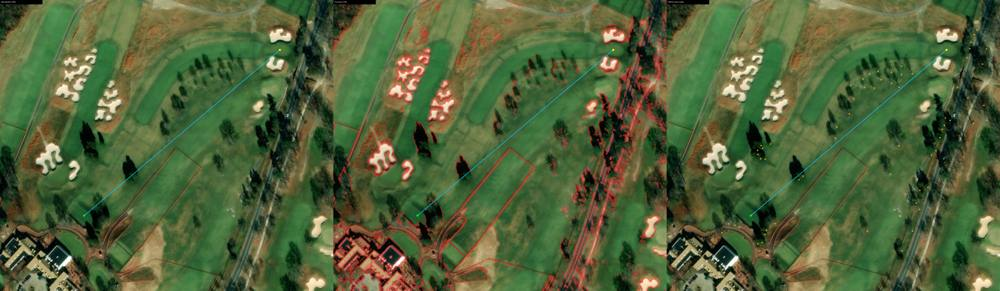
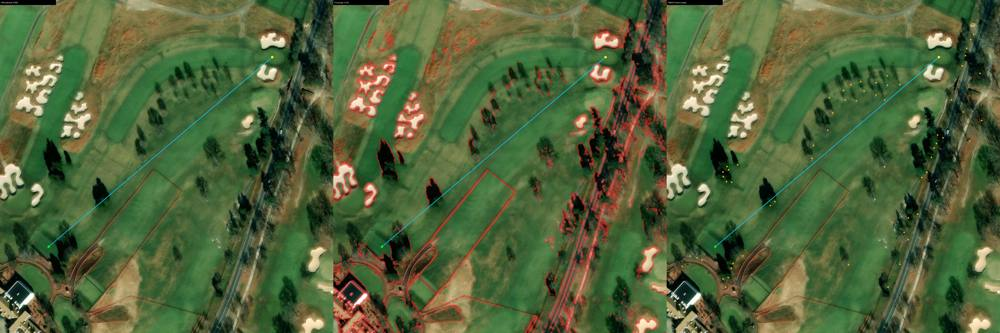
spike: make OSM-vs-CV numbers reproducible (reviewer follow-up)
Adds backend/scripts/tree_osm_compare.py (isolated-venv harness) that fetches the ESRI
tiles + the OSM tree/woods tags osm.py ingests, builds the committed 3-panel figures, and
prints the exact numbers the findings cite (canopy %, OSM counts, mean ExG corridor vs
in-woods, CV recall inside OSM woods). Closes the reviewer's non-blocking reproducibility
gap: the OSM node/poly/recall/ExG figures are no longer asserted-only. Softened live OSM
counts to ~approx (Overpass is live-edited) and pointed the Reproduce section at the
script. Ruff clean; no app code or deps touched.

Claude-Session: https://claude.ai/code/session_012CgufkmbGRw1MXGKEmTpei

diff --git a/backend/scripts/tree_osm_compare.py b/backend/scripts/tree_osm_compare.py
@@ -1,0 +1,170 @@
+"""OSM-vs-CV comparison for the tree-detection spike — makes the findings reproducible.
+
+RESEARCH SPIKE (2026-07-09). NOT wired into the app. Isolated spike venv only
+(numpy + Pillow + requests), same as tree_detect_spike.py.
+
+Given a hole's tee/green, this:
+  1. fetches the ESRI tile mosaic + runs the classical CV canopy detector (from
+     tree_detect_spike.py),
+  2. fetches OSM `natural=tree` nodes and `natural=wood`/`landuse=forest`/`scrub`/
+     `tree_row` polygons for the same bbox (the SAME tags osm.py ingests),
+  3. writes a 3-panel figure (raw | CV canopy | OSM trees+woods), and
+  4. prints the numbers cited in specs/tree-detection-cv-findings.md: OSM node/poly
+     counts, CV canopy %, whole-corridor vs in-woods mean ExG (the leaf-off signal),
+     and CV recall inside OSM-mapped woodland.
+
+Run (from repo root, isolated venv):
+    /tmp/tree-spike-venv/bin/python backend/scripts/tree_osm_compare.py \
+        --tee 40.745894,-73.450704 --green 40.749638,-73.452077 \
+        --label black-15 --out /tmp/tree-spike-out
+"""
+
+from __future__ import annotations
+
+import argparse
+import json
+import os
+import sys
+
+sys.path.insert(0, os.path.dirname(os.path.abspath(__file__)))
+from tree_spike_geometry import corridor_bbox  # noqa: E402
+
+try:
+    import numpy as np
+    import requests
+    from PIL import Image, ImageDraw
+except ImportError as exc:  # pragma: no cover - spike-venv guard
+    sys.exit(
+        f"[tree_osm_compare] missing '{exc.name}'. SPIKE script — isolated venv only:\n"
+        "  python3 -m venv /tmp/tree-spike-venv\n"
+        "  /tmp/tree-spike-venv/bin/pip install numpy Pillow requests"
+    )
+
+from tree_detect_spike import detect_canopy, fetch_mosaic, morph  # noqa: E402
+
+_UA = {"User-Agent": "looper-tree-spike/1.0 (feasibility research; contact repo owner)"}
+_OVERPASS = "https://overpass-api.de/api/interpreter"
+
+
+def osm_features(bbox):
+    """Return (tree_nodes[(lat,lng)], woods_polys[[(lat,lng)...]]) for the bbox using
+    the same tags backend/app/services/osm.py ingests."""
+    min_lat, min_lng, max_lat, max_lng = bbox
+    b = f"{min_lat},{min_lng},{max_lat},{max_lng}"
+    q = (f"[out:json][timeout:60];("
+         f"node[natural=tree]({b});"
+         f"way[natural=wood]({b});way[landuse=forest]({b});"
+         f"way[natural=scrub]({b});way[natural=tree_row]({b}););out geom;")
+    # Overpass throttles anonymous callers; retry a couple of times on a non-JSON body.
+    els = None
+    for attempt in range(3):
+        resp = requests.post(_OVERPASS, data={"data": q}, headers=_UA, timeout=90)
+        try:
+            els = resp.json().get("elements", [])
+            break
+        except ValueError:
+            if attempt == 2:
+                sys.exit(f"[tree_osm_compare] Overpass returned no JSON "
+                         f"(status {resp.status_code}) — likely rate-limited; retry later.")
+            __import__("time").sleep(10)
+    trees = [(e["lat"], e["lon"]) for e in els if e.get("type") == "node"]
+    polys = [[(p["lat"], p["lon"]) for p in e["geometry"]]
+             for e in els if e.get("type") == "way" and e.get("geometry")]
+    return trees, polys
+
+
+def _label(img, text):
+    d = ImageDraw.Draw(img)
+    d.rectangle([0, 0, 300, 26], fill=(0, 0, 0))
+    d.text((6, 8), text, fill=(255, 255, 255))
+    return img
+
+
+def run(tee, green, label, z, buffer_yd, out_dir):
+    bbox = corridor_bbox(tee, green, buffer_yd)
+    img, to_px, mpp = fetch_mosaic(bbox, z, os.path.join(out_dir, "tiles"))
+    canopy, exg, _ = detect_canopy(img)
+    canopy = morph(canopy)
+    tx, ty = to_px(*tee)
+    gx, gy = to_px(*green)
+
+    def chord(dd):
+        dd.line([tx, ty, gx, gy], fill=(0, 200, 255, 255), width=3)
+        dd.ellipse([tx - 6, ty - 6, tx + 6, ty + 6], fill=(0, 255, 0, 255))
+        dd.ellipse([gx - 6, gy - 6, gx + 6, gy + 6], fill=(255, 255, 0, 255))
+
+    p1 = img.copy()
+    chord(ImageDraw.Draw(p1))
+    _label(p1, "RAW satellite (ESRI)")
+
+    ov = img.convert("RGBA")
+    tint = np.zeros((*canopy.shape, 4), dtype=np.uint8)
+    tint[canopy] = [255, 40, 40, 120]
+    p2 = Image.alpha_composite(ov, Image.fromarray(tint)).convert("RGB")
+    chord(ImageDraw.Draw(p2))
+    _label(p2, f"CV canopy {canopy.mean() * 100:.1f}%")
+
+    trees, polys = osm_features(bbox)
+    ref = Image.new("L", img.size, 0)
+    rd = ImageDraw.Draw(ref)
+    p3 = img.convert("RGBA")
+    layer = Image.new("RGBA", p3.size, (0, 0, 0, 0))
+    ld = ImageDraw.Draw(layer)
+    for poly in polys:
+        pts = [to_px(la, lo) for la, lo in poly]
+        if len(pts) >= 3:
+            rd.polygon(pts, fill=255)
+            ld.polygon(pts, fill=(40, 120, 255, 90), outline=(40, 120, 255, 255))
+    for la, lo in trees:
+        x, y = to_px(la, lo)
+        ld.ellipse([x - 4, y - 4, x + 4, y + 4], fill=(255, 180, 0, 230))
+    p3 = Image.alpha_composite(p3, layer).convert("RGB")
+    chord(ImageDraw.Draw(p3))
+    _label(p3, f"OSM {len(trees)} trees {len(polys)} woods")
+
+    combo = Image.new("RGB", (p1.width + p2.width + p3.width, max(p.height for p in (p1, p2, p3))), (20, 20, 20))
+    x = 0
+    for p in (p1, p2, p3):
+        combo.paste(p, (x, 0))
+        x += p.width
+    scale = 1000.0 / combo.width
+    combo = combo.resize((1000, int(combo.height * scale)))
+    os.makedirs(out_dir, exist_ok=True)
+    combo_path = os.path.join(out_dir, f"{label}_compare.jpg")
+    combo.save(combo_path, "JPEG", quality=72)
+
+    ref_mask = np.asarray(ref) > 0
+    stats = {
+        "label": label, "zoom": z, "mpp": round(mpp, 3),
+        "cv_canopy_pct": round(float(canopy.mean()) * 100, 1),
+        "osm_tree_nodes": len(trees), "osm_woods_polys": len(polys),
+        "mean_exg_corridor": round(float(exg.mean()), 1), "compare_fig": combo_path,
+    }
+    if ref_mask.sum() > 500:
+        stats["osm_woods_px"] = int(ref_mask.sum())
+        stats["mean_exg_in_woods"] = round(float(exg[ref_mask].mean()), 1)
+        stats["cv_recall_in_woods_pct"] = round(float(canopy[ref_mask].mean()) * 100, 1)
+    print(json.dumps(stats))
+    json.dump(stats, open(os.path.join(out_dir, f"{label}_compare_stats.json"), "w"), indent=2)
+    return stats
+
+
+def _parse_ll(s):
+    lat, lng = s.split(",")
+    return float(lat), float(lng)
+
+
+def main():
+    ap = argparse.ArgumentParser(description="OSM-vs-CV tree comparison spike")
+    ap.add_argument("--tee", required=True, type=_parse_ll)
+    ap.add_argument("--green", required=True, type=_parse_ll)
+    ap.add_argument("--label", required=True)
+    ap.add_argument("--zoom", type=int, default=19)
+    ap.add_argument("--buffer-yd", type=float, default=60.0)
+    ap.add_argument("--out", default="/tmp/tree-spike-out")
+    a = ap.parse_args()
+    run(a.tee, a.green, a.label, a.zoom, a.buffer_yd, a.out)
+
+
+if __name__ == "__main__":
+    main()

diff --git a/specs/tree-detection-cv-findings.md b/specs/tree-detection-cv-findings.md
@@ -38,14 +38,19 @@ small feature) on surfacing existing OSM trees to the caddie.
 
 ## Measured results
 
-| Hole | CV canopy % | OSM tree nodes | OSM woods polys | CV recall inside OSM woods |
-|------|-------------|----------------|-----------------|----------------------------|
-| Black 1  | 12.5–12.8% | 65 | 0 | — (no woods poly) |
-| Black 15 | 10.0% | 66 | 3 | **11.6%** |
-| Black 18 | 10.9% | 47 | 2 | **14.3%** |
+All numbers below are the actual stdout of `backend/scripts/tree_osm_compare.py` on the
+three corridors (see Reproduce). OSM is a live database, so the tree-node/woods-poly
+counts drift by a few as volunteers edit — the counts here are a representative query
+(2026-07-09); the CV and ExG numbers are deterministic from the tiles.
 
-Greenness check (ExG on 0–255 channels): whole-corridor mean ExG ≈ 55–63, but inside
-OSM-mapped woodland ExG ≈ **20–31** — i.e. **tree canopy is LESS green than the fairway**.
+| Hole | CV canopy % | OSM tree nodes | OSM woods polys | mean ExG (corridor / in-woods) | CV recall inside OSM woods |
+|------|-------------|----------------|-----------------|-------------------------------|----------------------------|
+| Black 1  | 12.5% | ~63 | 0 | 63.8 / — | — (no woods poly) |
+| Black 15 | 10.0% | ~62 | 3 | 55.6 / **20.2** | **11.6%** |
+| Black 18 | 10.9% | ~43 | 2 | 60.5 / **31.4** | **14.3%** |
+
+Greenness check (ExG on 0–255 channels): whole-corridor mean ExG 55.6–63.8, but inside
+OSM-mapped woodland ExG 20.2–31.4 — i.e. **tree canopy is LESS green than the fairway**.
 A green-index gate therefore keeps turf strongly and trees weakly — backwards from what
 we want, and exactly why classical colour segmentation fails here.
 
@@ -78,8 +83,9 @@ left side) and standalone dark-green trees — but not cleanly enough to trust u
 **Trees are already in our pipeline.** `backend/app/services/osm.py` already fetches
 `natural=tree` (→ `featureType:"tree"` points) and `natural=wood`/`landuse=forest`
 (→ `featureType:"woods"` polygons), and `osm_ingest.py` stores them per hole in PostGIS
-`hole_features`. At Bethpage the bbox holds **537 tree nodes + 73 woods polygons
-(~1.01 km²)**. They are simply **excluded from the caddie** by two lines in
+`hole_features`. A course-wide Overpass query of the Bethpage State Park bbox returned
+**537 tree nodes + 73 woods/scrub polygons (~1.01 km²)** (live count, 2026-07-09). They
+are simply **excluded from the caddie** by two lines in
 `backend/app/caddie/hazards.py`:
 
 ```
@@ -124,10 +130,20 @@ per-hole comparison shows real gaps on continuous tree lines), so the honest
 ```
 python3 -m venv /tmp/tree-spike-venv
 /tmp/tree-spike-venv/bin/pip install numpy Pillow requests
+
+# CV-only (raw + canopy overlay, canopy %):
 /tmp/tree-spike-venv/bin/python backend/scripts/tree_detect_spike.py \
   --tee 40.742998,-73.454575 --green 40.745071,-73.451351 --label black-1 \
   --zoom 19 --out /tmp/tree-spike-out
+
+# The FULL comparison behind every number + figure in this doc (CV %, OSM node/poly
+# counts, mean ExG corridor vs in-woods, CV recall inside OSM woods, 3-panel figure):
+/tmp/tree-spike-venv/bin/python backend/scripts/tree_osm_compare.py \
+  --tee 40.745894,-73.450704 --green 40.749638,-73.452077 --label black-15 \
+  --out /tmp/tree-spike-out
 ```
 
-Pure geometry helpers (`backend/scripts/tree_spike_geometry.py`) are covered by
-`backend/tests/test_tree_spike_geometry.py` (runs in CI, no numpy/DB/network).
+`tree_osm_compare.py` is the source of the results table and the committed figures in
+`specs/tree-detection-cv-figures/` (it hits Overpass live, so tree/woods counts may drift
+a few). The pure geometry helpers (`backend/scripts/tree_spike_geometry.py`) are covered
+by `backend/tests/test_tree_spike_geometry.py` (runs in CI, no numpy/DB/network).

diff --git a/specs/tree-detection-cv-spike-plan.md b/specs/tree-detection-cv-spike-plan.md
@@ -93,7 +93,12 @@ Only if the baseline is inadequate:
 3. `backend/scripts/tree_detect_spike.py` — the harness (numpy/Pillow, isolated venv only;
    guarded imports with a friendly "create the spike venv first" message). Fetches ESRI
    tiles for a corridor, runs the detector, writes raw + overlay PNGs + a stats line.
-4. `specs/tree-detection-cv-findings.md` — the real findings + verdict.
+4. `backend/scripts/tree_osm_compare.py` — the OSM-vs-CV comparison (isolated venv):
+   fetches the same tiles + the OSM `natural=tree`/`wood`/`forest`/`scrub`/`tree_row`
+   features osm.py ingests, writes the 3-panel figure, and prints the exact numbers the
+   findings cite (canopy %, OSM counts, ExG corridor vs in-woods, CV recall in woods) so
+   the verdict is reproducible, not asserted.
+5. `specs/tree-detection-cv-findings.md` — the real findings + verdict.
 
 **NOT committed:** the spike venv, tiles, PNGs (under gitignored `backend/data/`).
 **No change to `backend/pyproject.toml` or `uv.lock`. No app code touched.**